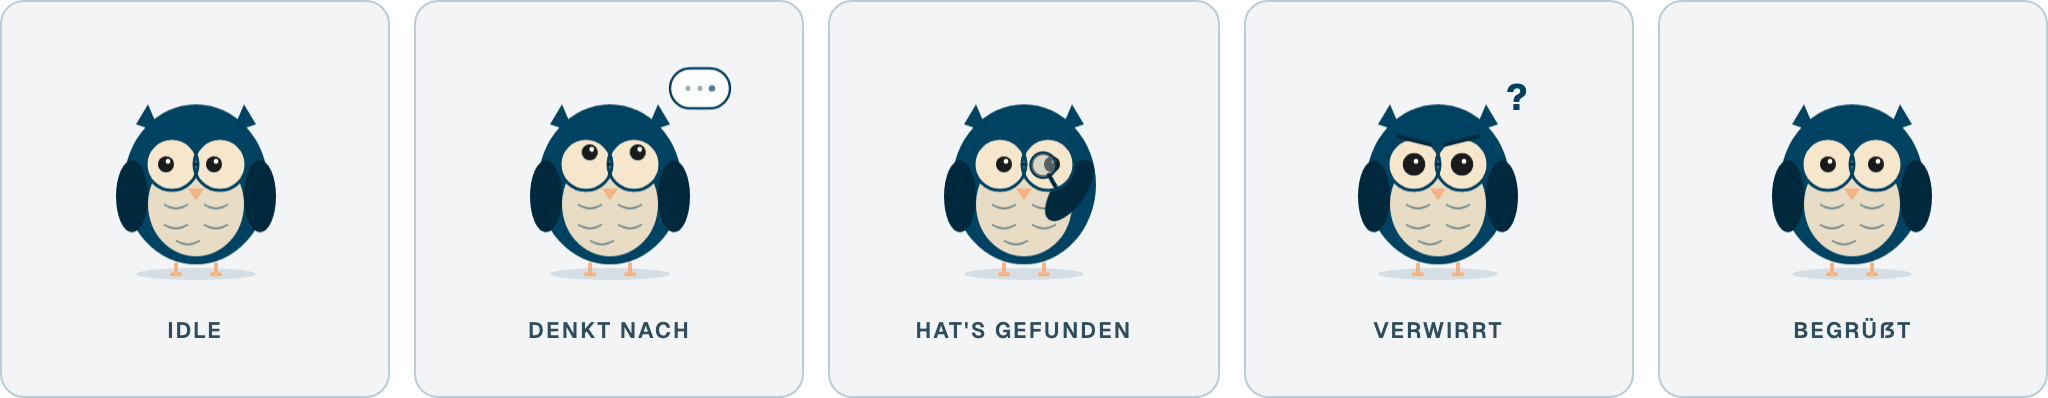
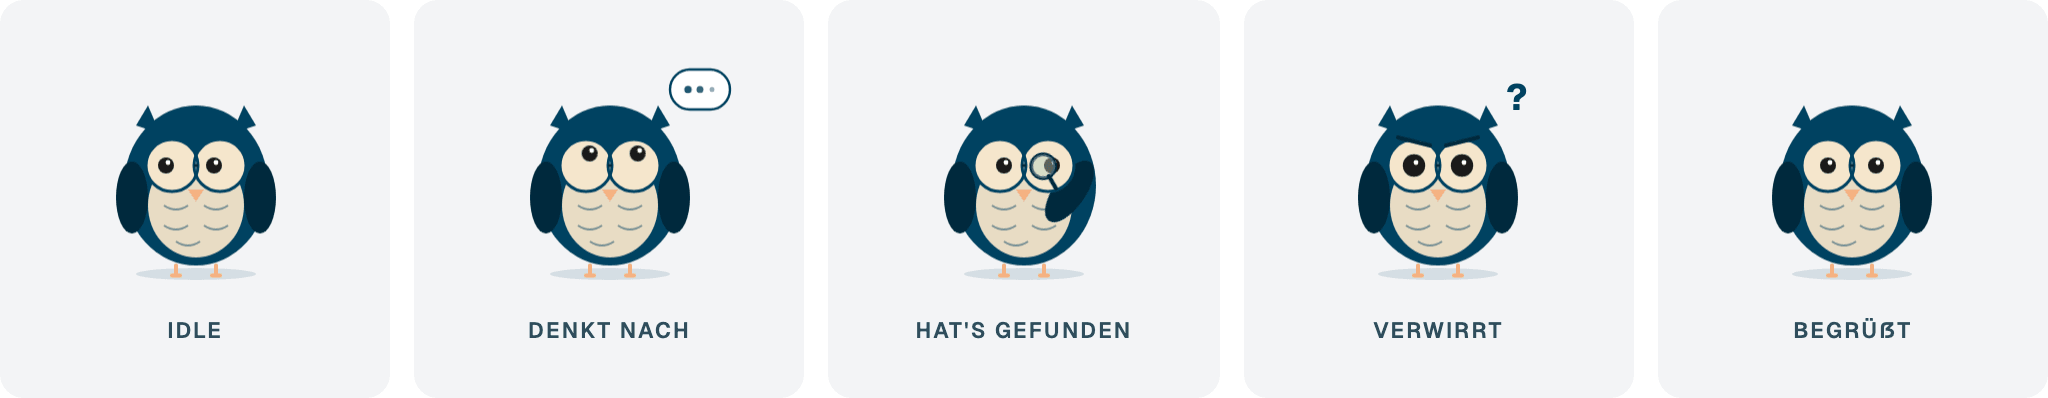
docs(handbuch): KIS ausgeschrieben, Francis zeigt seine Stimmungen
Der Name steht jetzt voll auf der Startseite des Handbuchs und im Kopf der
Druckansicht. Das Maskottchen-Raster gibt es fuer beide Figuren, der Rahmen um
die Kaesten und um die Bilder faellt weg, er gehoert zur Werkstatt.

diff --git a/frontend/e2e/manual-images.spec.ts b/frontend/e2e/manual-images.spec.ts
@@ -498,20 +498,26 @@ test.describe("Handbuch-Bilder", () => {
     });
 
     // Nur das Raster mit den fuenf Stimmungen, der Rest der Seite ist Werkstatt.
-    // Das Bild gibt es nur auf Deutsch, der englische Artikel zeigt dasselbe.
-    test(`maskottchen-zustaende ${locale}`, async ({ page }) => {
-      test.skip(locale !== "de", "ein Bild fuer beide Sprachen");
-      await useLocale(page, locale);
-      await page.goto(`${prefix(locale)}/admin/mascots/hilde`, { waitUntil: "domcontentloaded" });
-      await settle(page);
-      const section = page.locator("section").filter({ hasText: LABELS[locale].allMoods }).last();
-      // Nur die Kaesten, die Ueberschrift darueber gehoert zur Verwaltung.
-      const grid = section.locator("div.grid").first();
-      await expect(grid).toBeVisible();
-      // Die Figuren laufen beim Erscheinen eine Animation.
-      await page.waitForTimeout(3000);
-      await grid.screenshot({ path: shot(locale, "mascot-states") });
-    });
+    // Die Bilder gibt es nur auf Deutsch, der englische Artikel zeigt dieselben.
+    for (const mascot of ["hilde", "francis"] as const) {
+      test(`maskottchen-zustaende ${mascot} ${locale}`, async ({ page }) => {
+        test.skip(locale !== "de", "ein Bild fuer beide Sprachen");
+        await useLocale(page, locale);
+        const url = `${prefix(locale)}/admin/mascots/${mascot}`;
+        await page.goto(url, { waitUntil: "domcontentloaded" });
+        await settle(page);
+        const section = page.locator("section").filter({ hasText: LABELS[locale].allMoods }).last();
+        // Nur die Kaesten, die Ueberschrift darueber gehoert zur Verwaltung.
+        const grid = section.locator("div.grid").first();
+        await expect(grid).toBeVisible();
+        // Die Figuren laufen beim Erscheinen eine Animation.
+        await page.waitForTimeout(3000);
+        // Der Rahmen um die Kaesten gehoert zur Werkstatt, im Handbuch stoert er. Transparent
+        // statt none, sonst schrumpfen die Kaesten um die Rahmenbreite.
+        await page.addStyleTag({ content: ".grid > div { border-color: transparent }" });
+        await grid.screenshot({ path: shot(locale, `mascot-states-${mascot}`) });
+      });
+    }
 
     // Turns the demo user's own switch on, drops an existing level, starts a fresh test,
     // skips every question, and lands back on the level page with a level set.

diff --git a/frontend/src/app/[locale]/manual/_components/ManualPrint.tsx b/frontend/src/app/[locale]/manual/_components/ManualPrint.tsx
@@ -58,7 +58,7 @@ export default function ManualPrintView({
       <h1 className="text-3xl font-bold mb-2" style={{ color: "var(--foreground)" }}>
         {t("title")}
       </h1>
-      <p className="text-sm mb-10" style={{ color: "var(--muted)" }}>KIS</p>
+      <p className="text-sm mb-10" style={{ color: "var(--muted)" }}>{t("subtitle")}</p>
 
       <h2 className="text-lg font-semibold mb-3" style={{ color: "var(--foreground)" }}>
         {t("toc")}

diff --git a/frontend/src/app/[locale]/manual/_components/ManualArticle.tsx b/frontend/src/app/[locale]/manual/_components/ManualArticle.tsx
@@ -88,7 +88,6 @@ export default function ManualArticleView({
                   width={size?.width}
                   height={size?.height}
                   className="max-w-full h-auto rounded-lg"
-                  style={{ border: "1px solid var(--border)" }}
                 />
               </button>
             );

diff --git a/frontend/src/content/manual/de/20-modules/30-asking-questions.md b/frontend/src/content/manual/de/20-modules/30-asking-questions.md
@@ -29,7 +29,9 @@ Der Verlauf bleibt je Modul und Person erhalten. Vor einer neuen, unabhängigen 
 
 Hilde oder Francis, Ihre Wahl in den Einstellungen des Moduls. Am Inhalt ändert das nichts.
 
-![Hilde in ihren fünf Stimmungen](/manual/{lang}/mascot-states.png)
+![Hilde in ihren fünf Stimmungen](/manual/{lang}/mascot-states-hilde.png)
+
+![Francis in denselben fünf Stimmungen](/manual/{lang}/mascot-states-francis.png)
 
 Über der neuesten Antwort steht das Bild und zeigt, woran der Chat gerade ist. Von links nach
 rechts:

diff --git a/frontend/src/content/manual/de/10-getting-started/05-was-ist-kis.md b/frontend/src/content/manual/de/10-getting-started/05-was-ist-kis.md
@@ -1,8 +1,9 @@
 # Was ist KIS
 
-KIS ist ein Pilotprojekt an der TH Lübeck, eine KI-Plattform für Lehre und
-Studium. Sie deckt zwei getrennte Bereiche ab: eigenständige Werkzeuge und
-Module mit einem KI-Studienassistenten.
+KIS steht für KInternationalisierung von Studiengängen und ist ein Pilotprojekt
+an der TH Lübeck, eine KI-Plattform für Lehre und Studium. Sie deckt zwei
+getrennte Bereiche ab: eigenständige Werkzeuge und Module mit einem
+KI-Studienassistenten.
 
 ## Die Werkzeuge
 

diff --git a/frontend/src/content/manual/en/20-modules/30-asking-questions.md b/frontend/src/content/manual/en/20-modules/30-asking-questions.md
@@ -30,7 +30,9 @@ The history is kept per module and person. Before a new, independent question it
 Hilde or Francis, your choice in the settings of the module. It changes nothing about the
 content.
 
-![Hilde in her five moods](/manual/de/mascot-states.png)
+![Hilde in her five moods](/manual/de/mascot-states-hilde.png)
+
+![Francis in the same five moods](/manual/de/mascot-states-francis.png)
 
 The picture sits above the newest answer and shows what the chat is up to. From left to right:
 

diff --git a/frontend/src/content/manual/en/10-getting-started/05-was-ist-kis.md b/frontend/src/content/manual/en/10-getting-started/05-was-ist-kis.md
@@ -1,8 +1,8 @@
 # What KIS is
 
-KIS is a pilot project at TH Lübeck, an AI platform for teaching and study. It
-covers two separate areas: standalone tools and modules with an AI study
-assistant.
+KIS stands for KInternationalisierung von Studiengängen and is a pilot project
+at TH Lübeck, an AI platform for teaching and study. It covers two separate
+areas: standalone tools and modules with an AI study assistant.
 
 ## The tools
 
